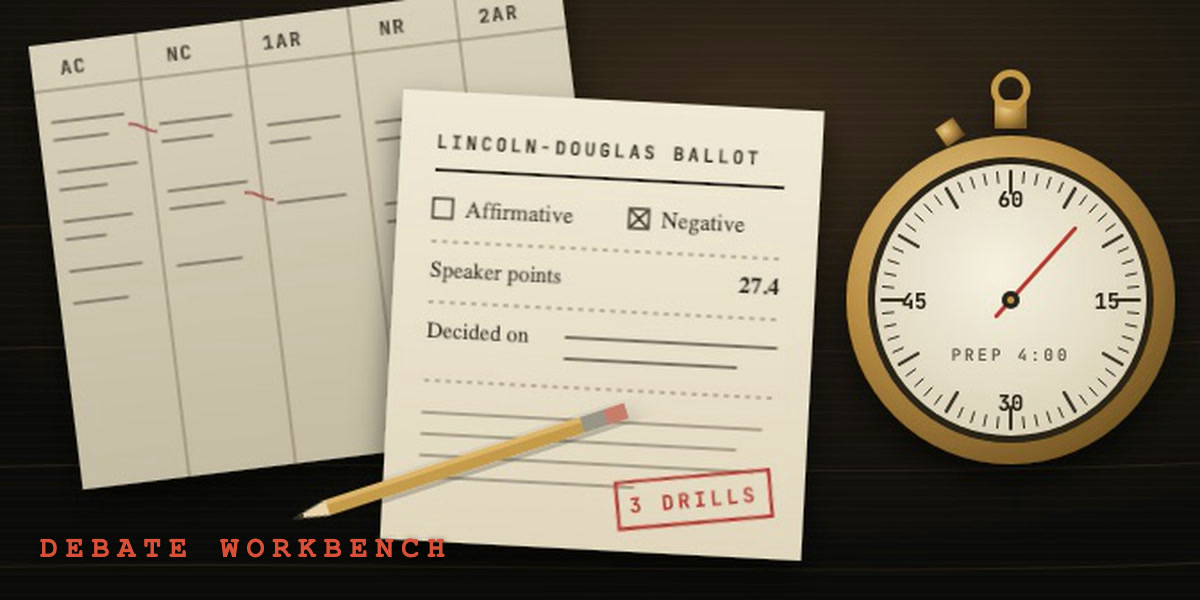
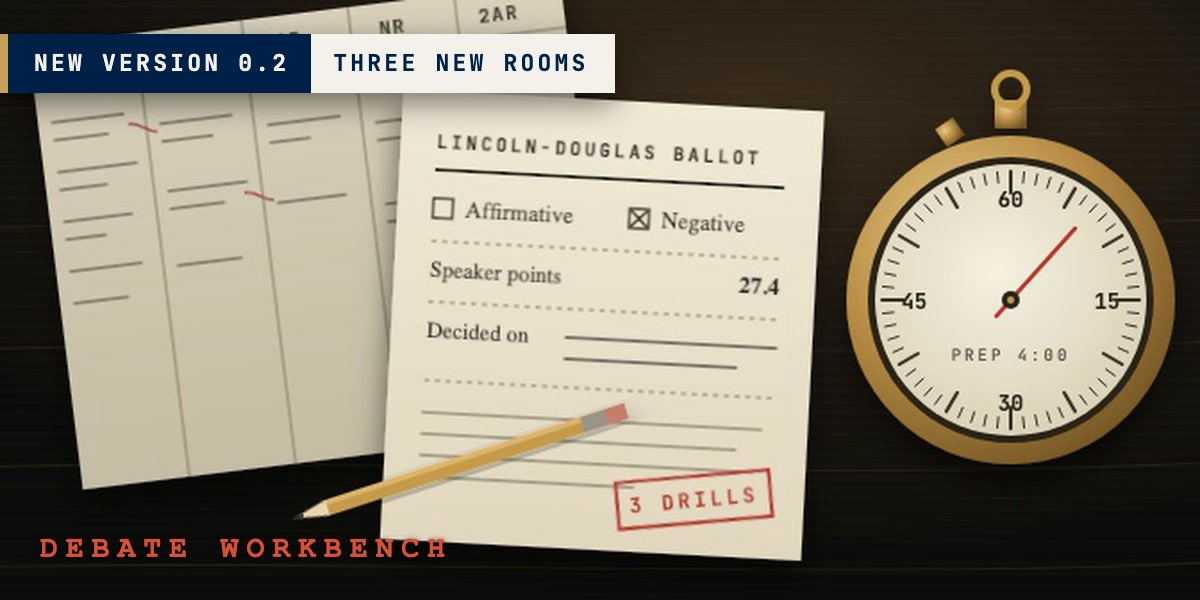
Card and README say what is new in 0.2

Changed region(s): [[0.0, 0.03, 0.5242, 0.21], [0.185, 0.9, 0.37, 0.93], [0.0308, 0.9, 0.1542, 0.93]]

diff --git a/README.md b/README.md
@@ -1,5 +1,9 @@
 # Debate Workbench for Hermes
 
+![Debate Workbench card: new version 0.2, three new rooms](docs/catalog/card.jpg)
+
+**New in 0.2:** three new rooms. Extemp, with answers spoken on a real clock; Rhetoric, which marks the figures in famous speeches; and Ballots, which counts your habits across rounds and shows which way each is heading.
+
 Practice speech and debate out loud, inside the Hermes desktop app: extemp, Lincoln-Douglas and rhetoric.
 
 You speak on a real clock. A practice judge writes a ballot that quotes three of your own lines, and code checks each quoted line against what you said. In Lincoln-Douglas, where the judge may shorten a line with "...", a quoted line with no run of three or more words is left unchecked. Every ballot is kept, so the things judges write more than once show up as patterns you can drill.
